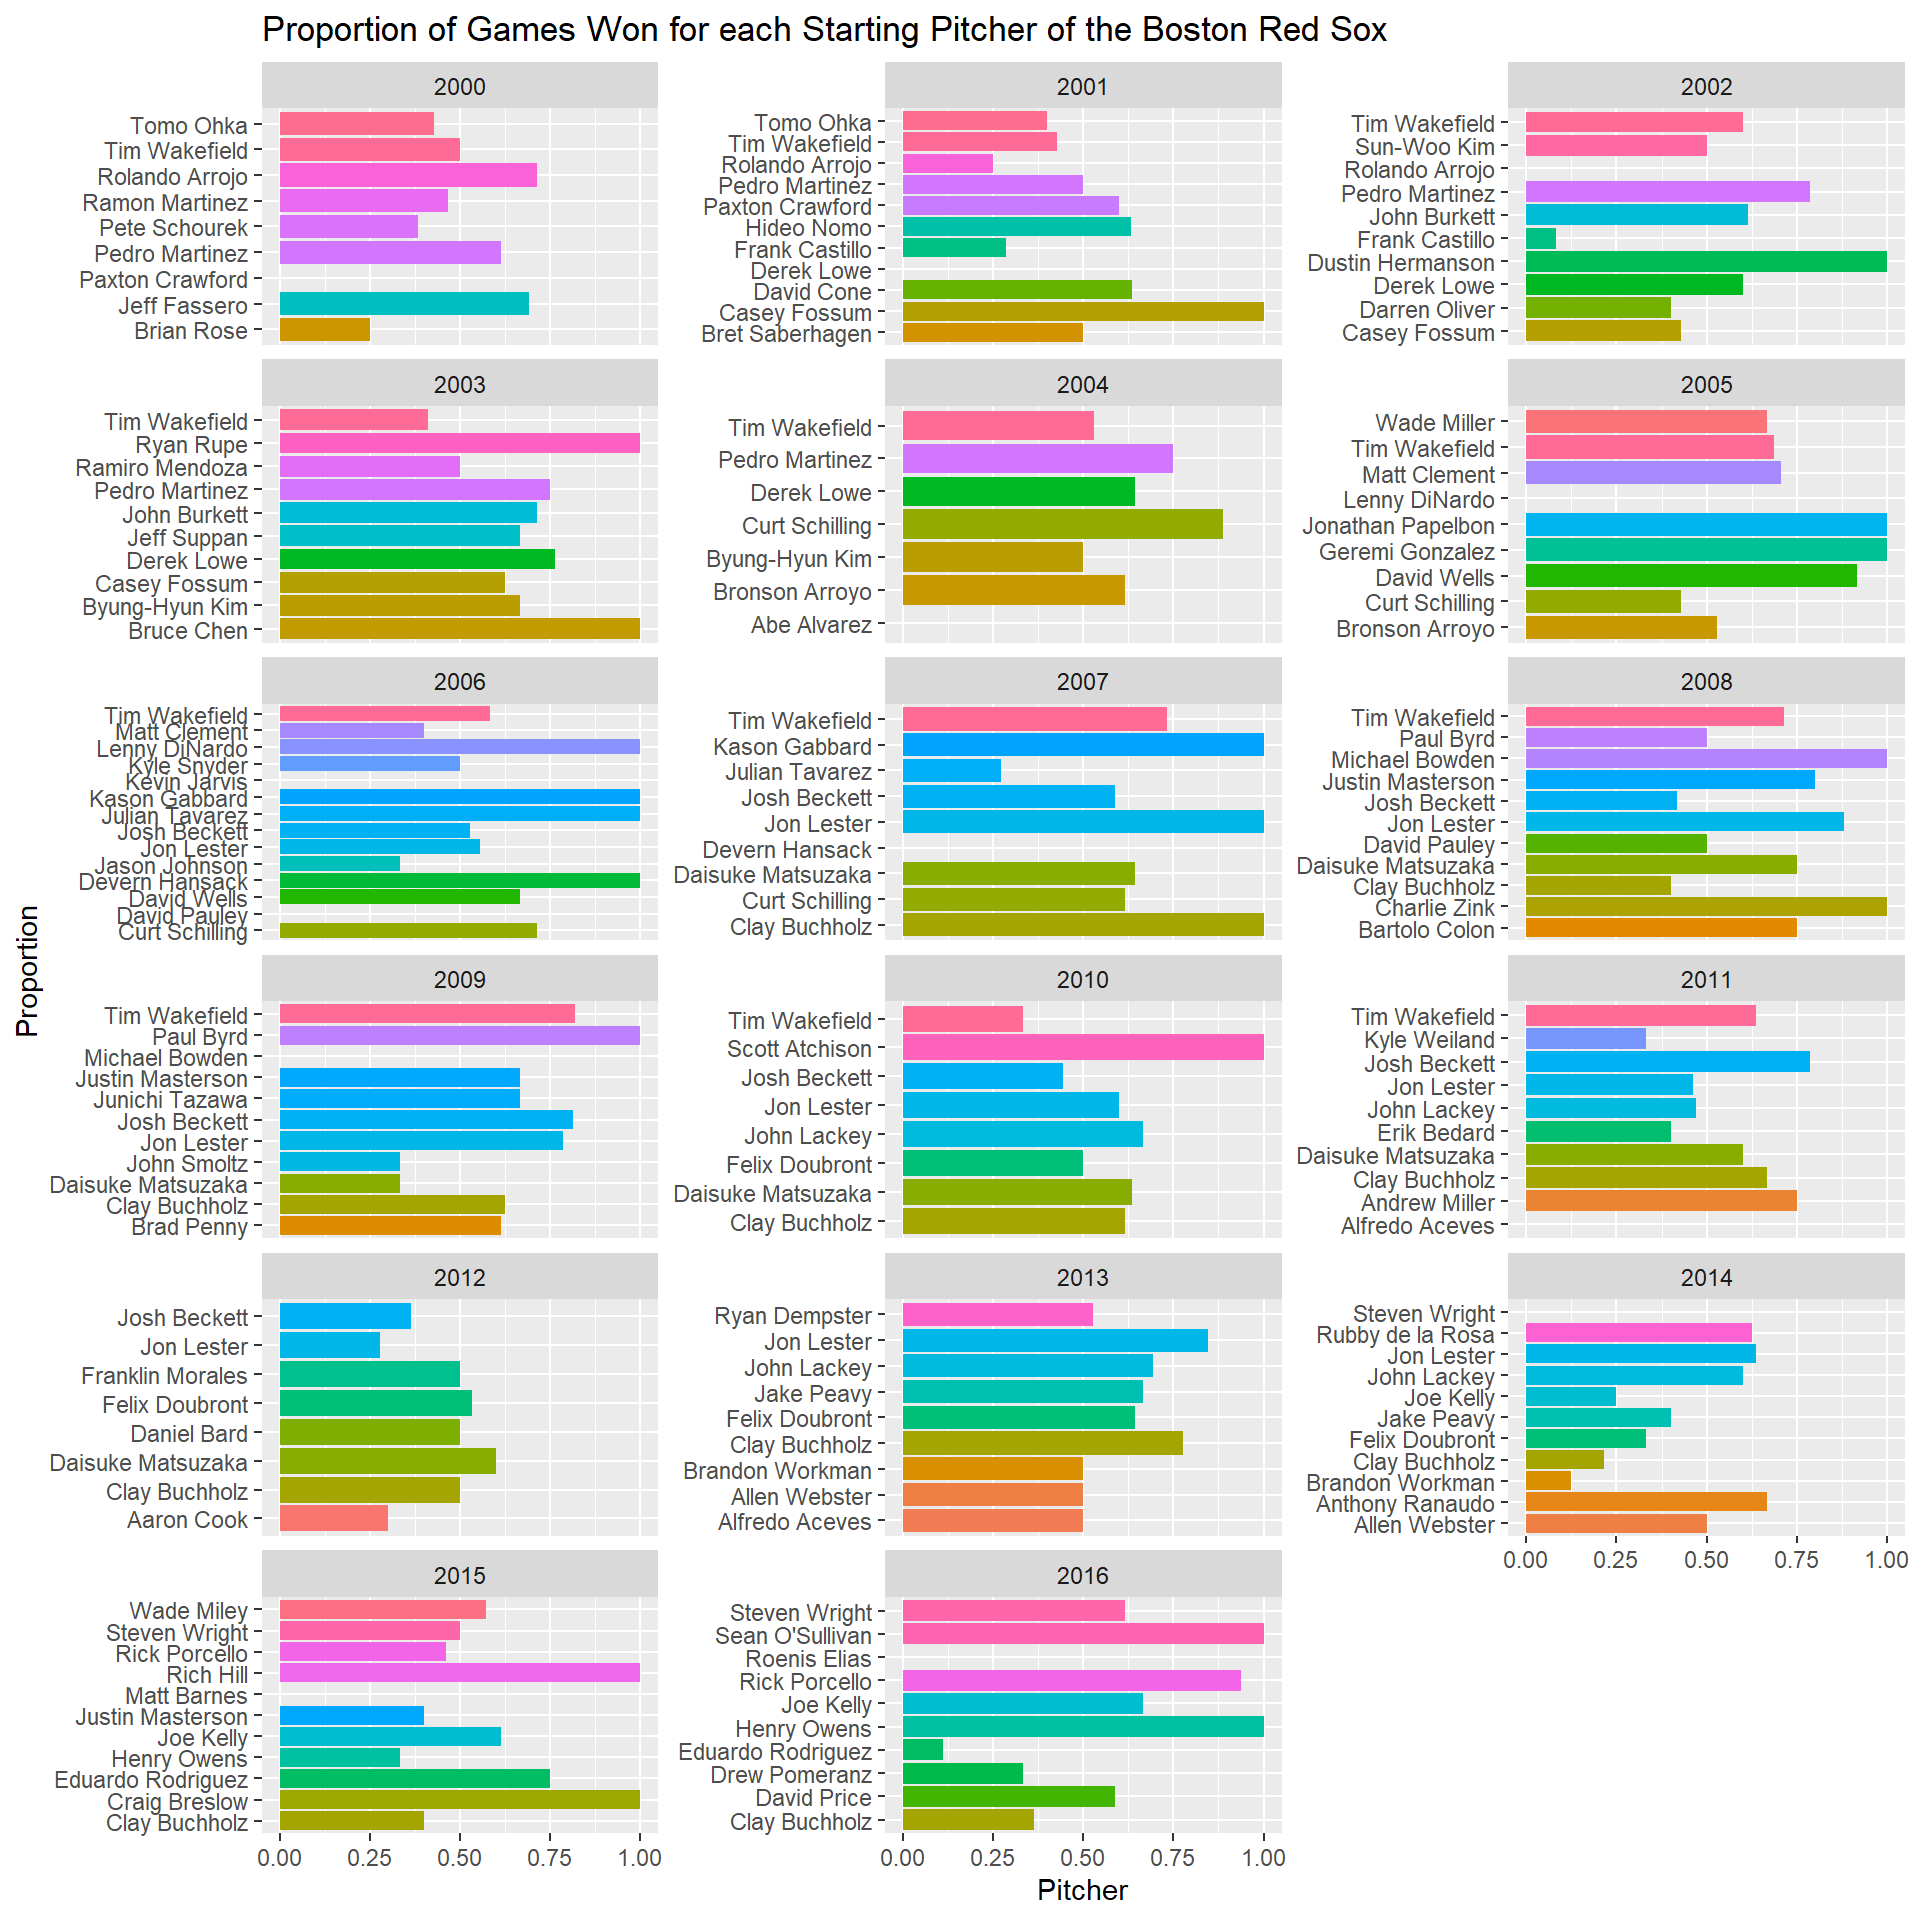
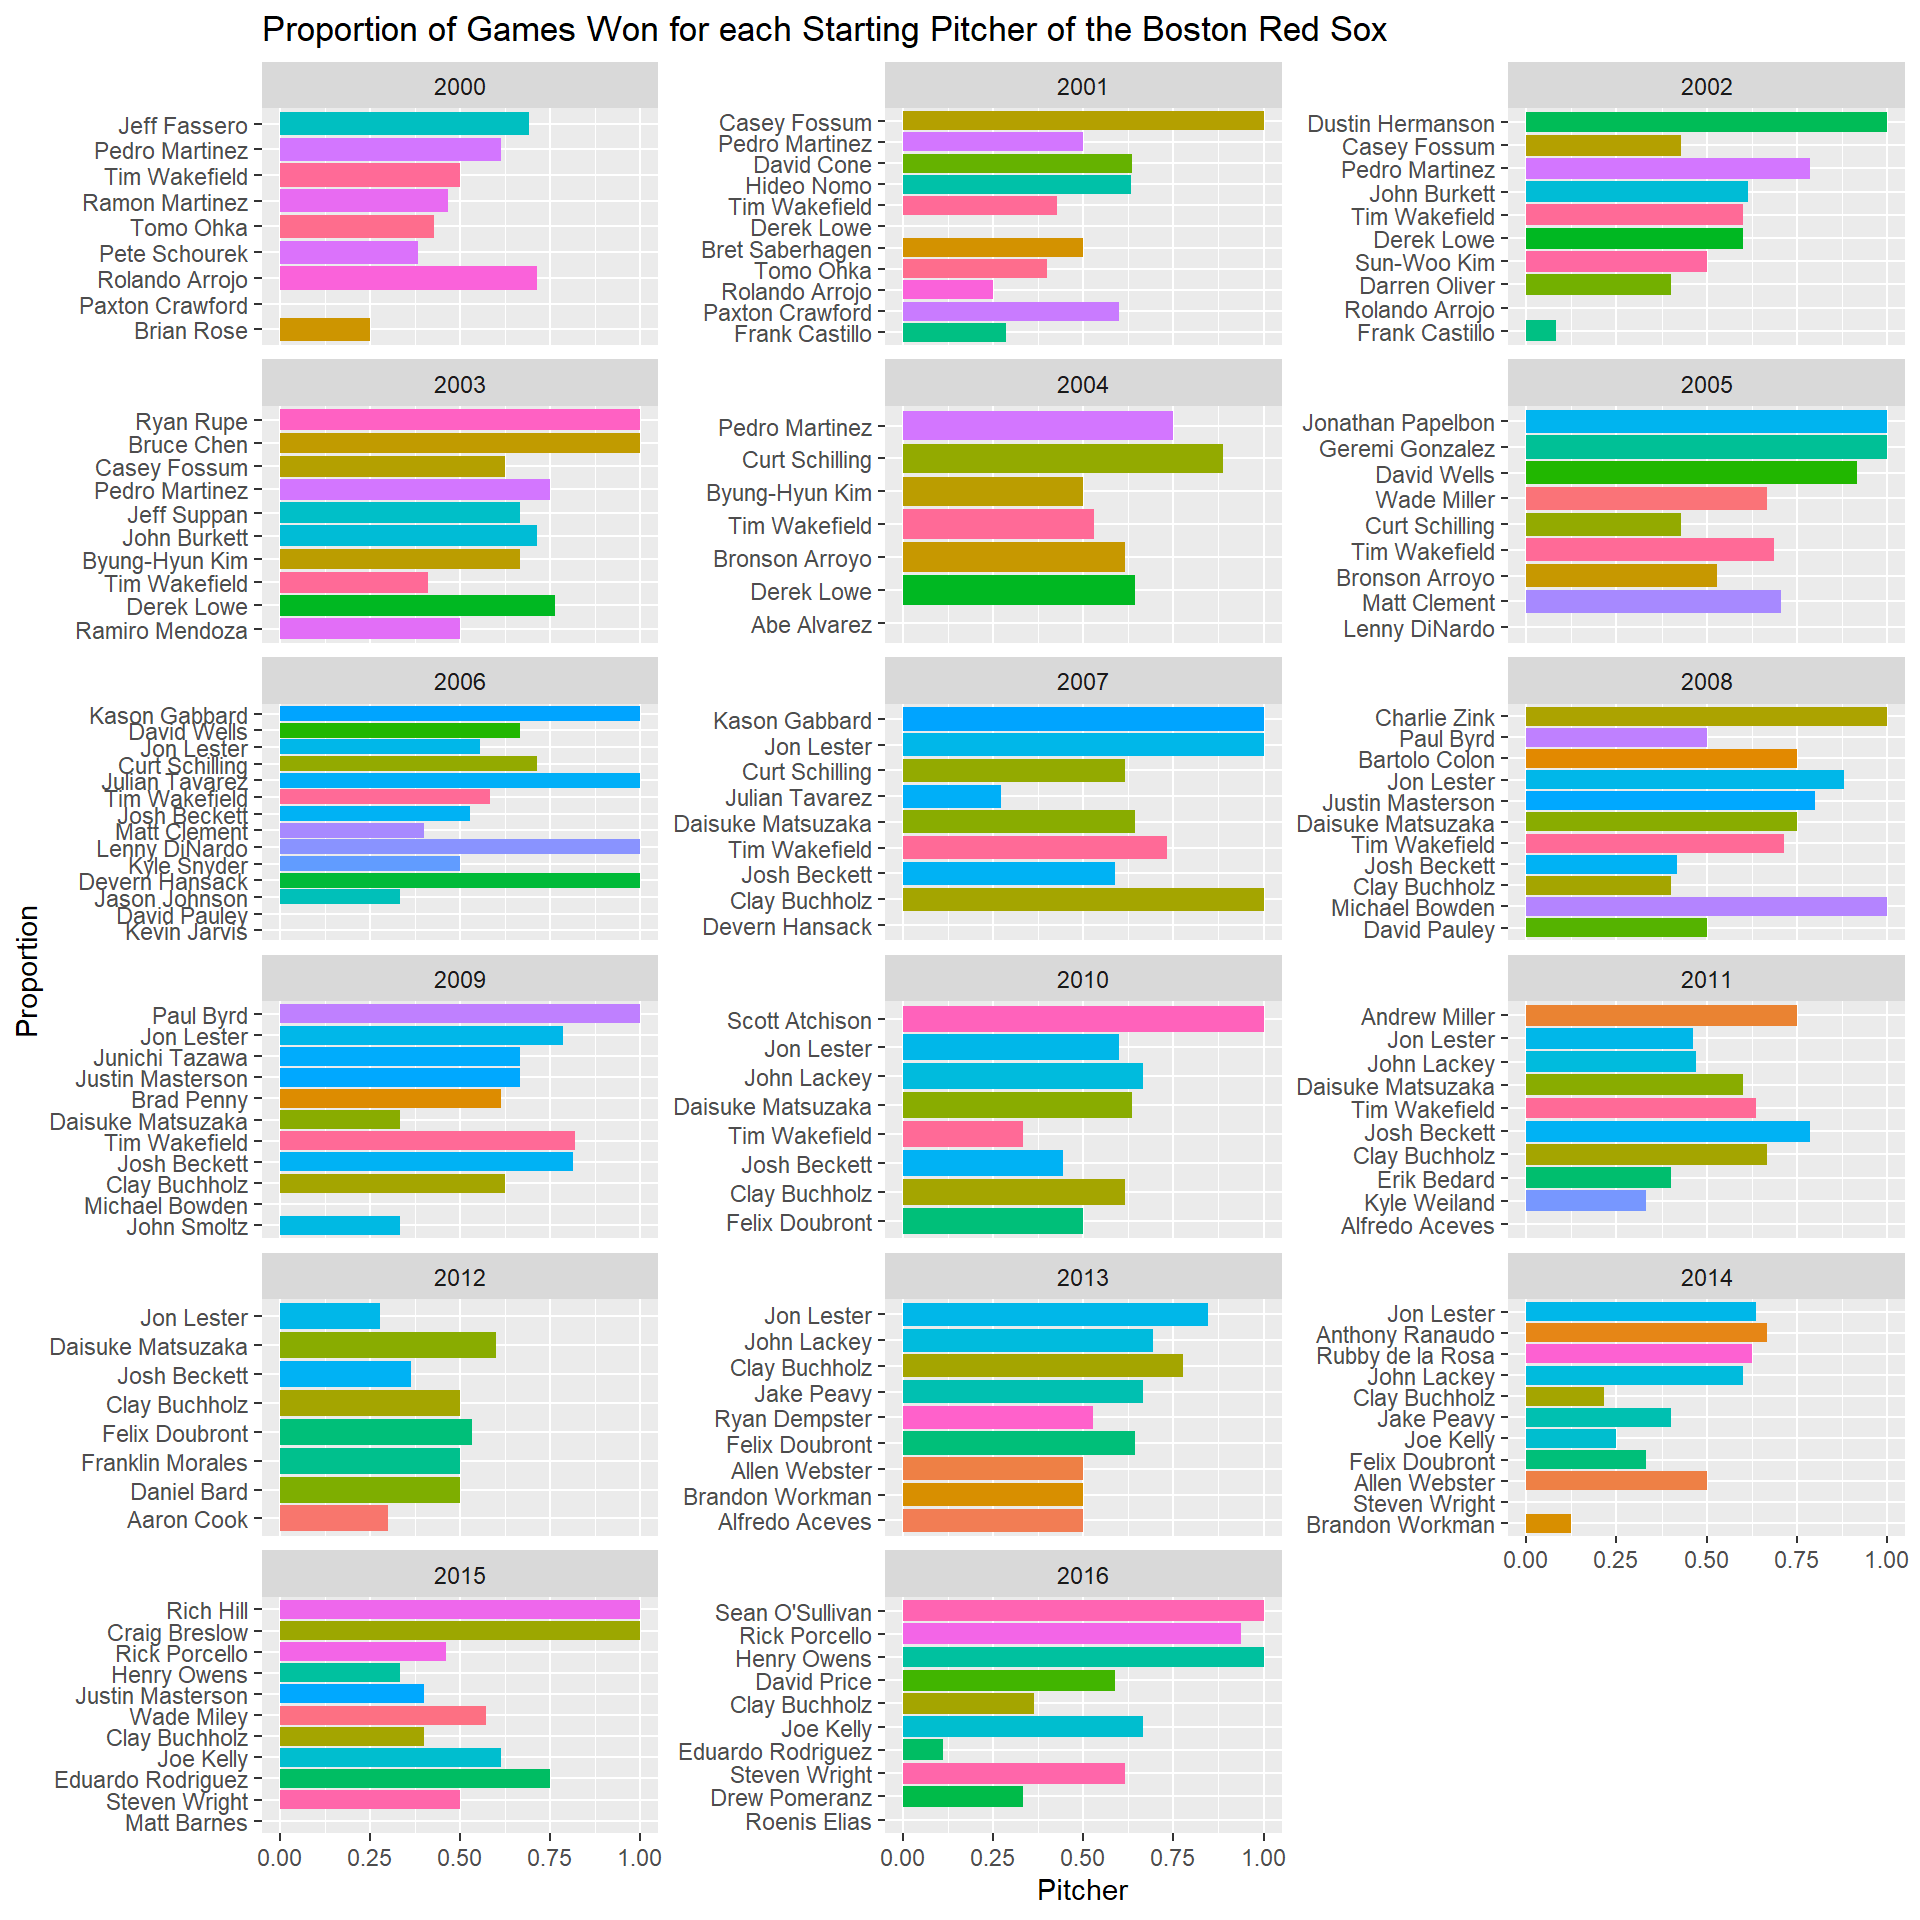
small edits

diff --git a/content/post/2022-11-03-blog-post-4-week-of-10-31-2022/index.html b/content/post/2022-11-03-blog-post-4-week-of-10-31-2022/index.html
@@ -87,13 +87,13 @@ load(here::here(&quot;dataset&quot;, &quot;baseball.RData&quot;))</code></pre>
 ## # … with 158 more rows</code></pre>
 <p>With these data sets, we can now graph both the proportion of games each pitcher wins and the number of games each pitcher wins. Each year corresponds to an individual season.</p>
 <pre class="r"><code>pitcher_prop %&gt;% group_by(year) %&gt;%
-                ggplot(aes(h_starting_pitcher_name,prop,fill=h_starting_pitcher_name))+
-                geom_col(show.legend=FALSE)+
-                coord_flip()+
-                facet_wrap(vars(year),scales=&quot;free_y&quot;,ncol=3)+
-                labs(title=&quot;Proportion of Games Won for each Starting Pitcher of the Boston Red Sox&quot;)+
-                xlab(&quot;Proportion&quot;)+
-                ylab(&quot;Pitcher&quot;)</code></pre>
+                 ggplot(aes(x=reorder(h_starting_pitcher_name,prop),y=prop,fill=h_starting_pitcher_name))+
+                 geom_col(show.legend=FALSE)+
+                 coord_flip()+
+                 facet_wrap(vars(year),scales=&quot;free_y&quot;,ncol=3)+
+                 labs(title=&quot;Proportion of Games Won for each Starting Pitcher of the Boston Red Sox&quot;)+
+                 xlab(&quot;Proportion&quot;)+
+                 ylab(&quot;Pitcher&quot;)</code></pre>
 <p><img src="{{< blogdown/postref >}}index_files/figure-html/graph1cont-1.png" width="960" /></p>
 <pre class="r"><code>pitcher_win %&gt;% group_by(year) %&gt;%
                 ggplot(aes(h_starting_pitcher_name,games_won,fill=h_starting_pitcher_name))+
